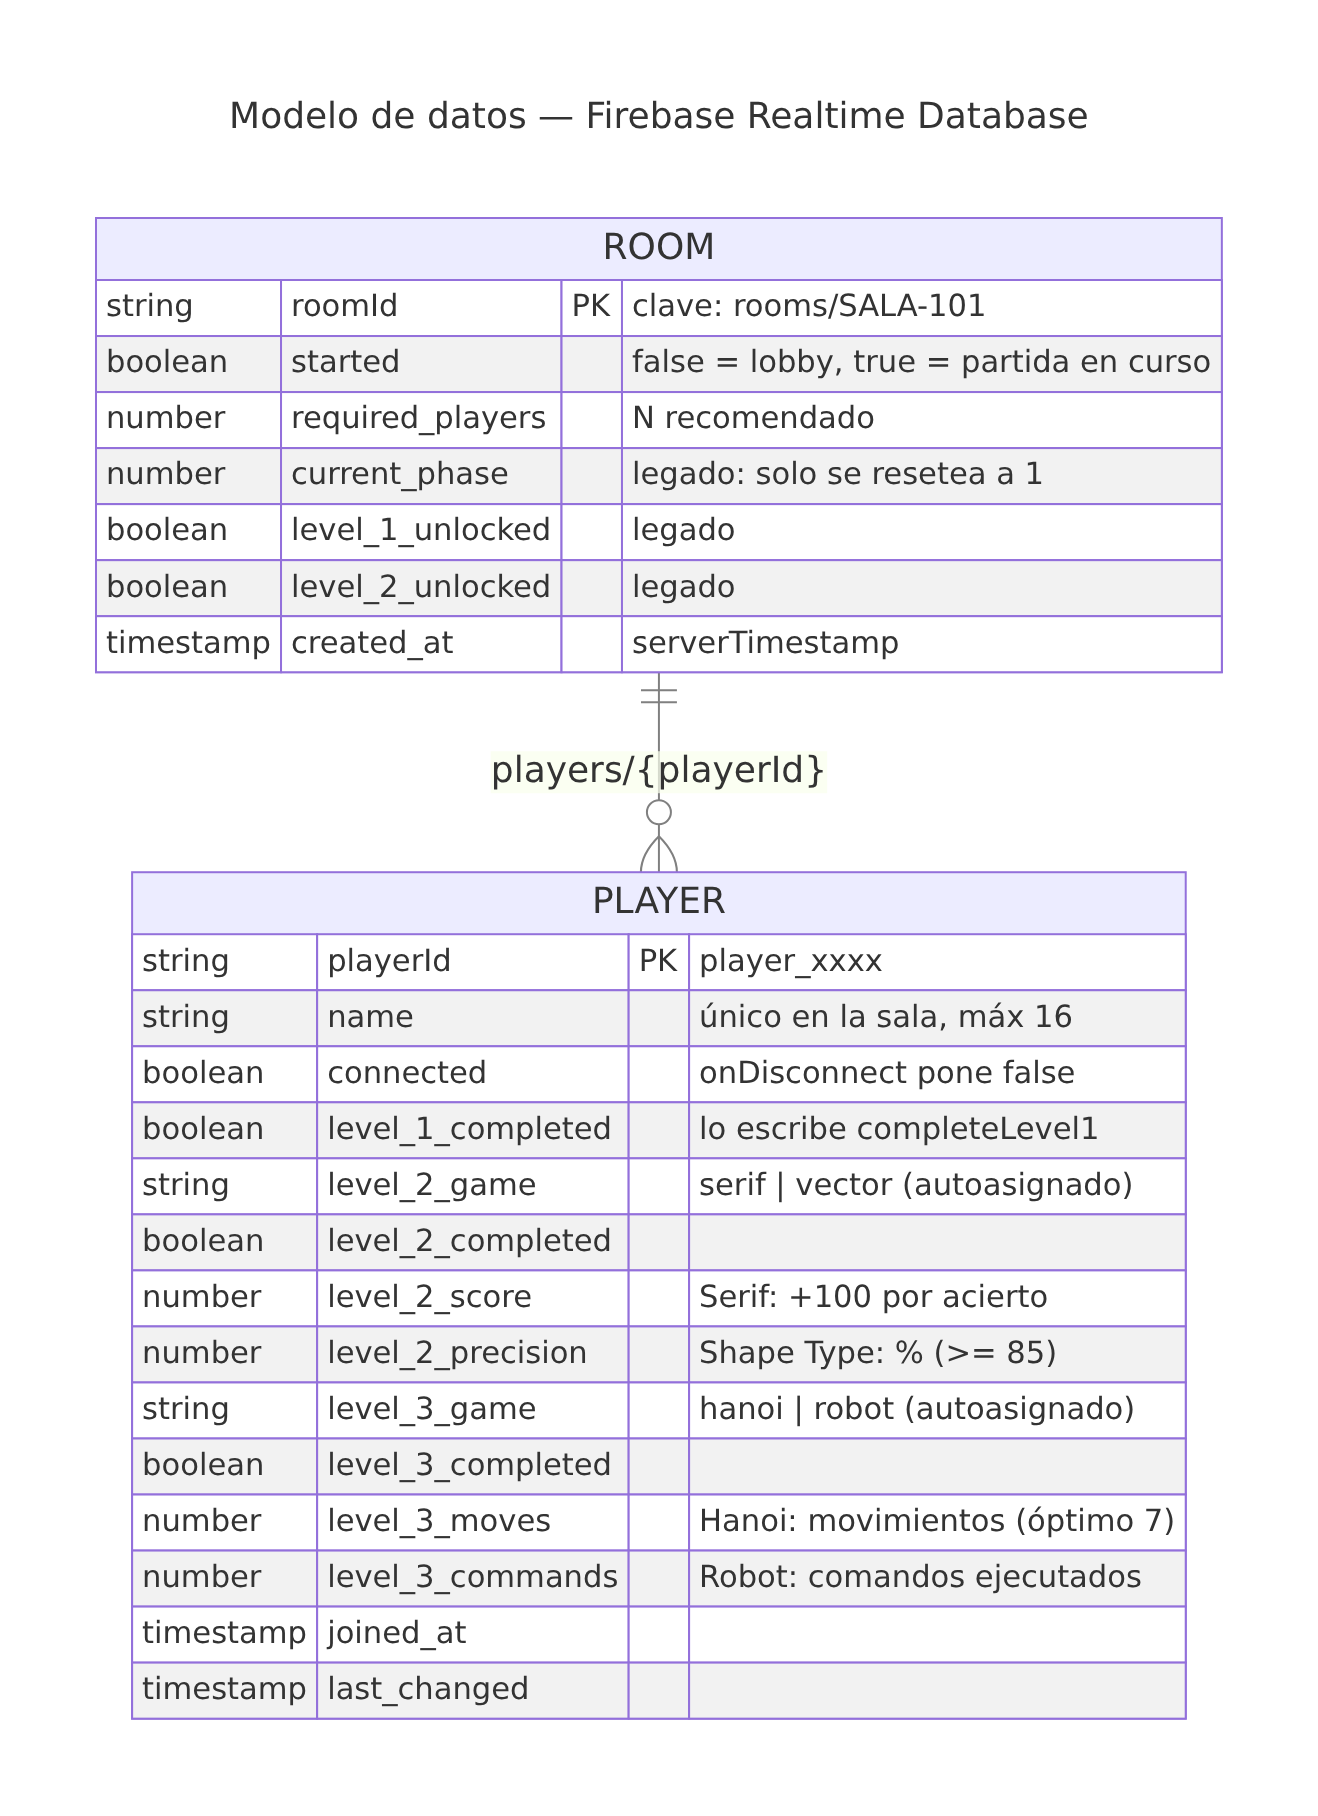
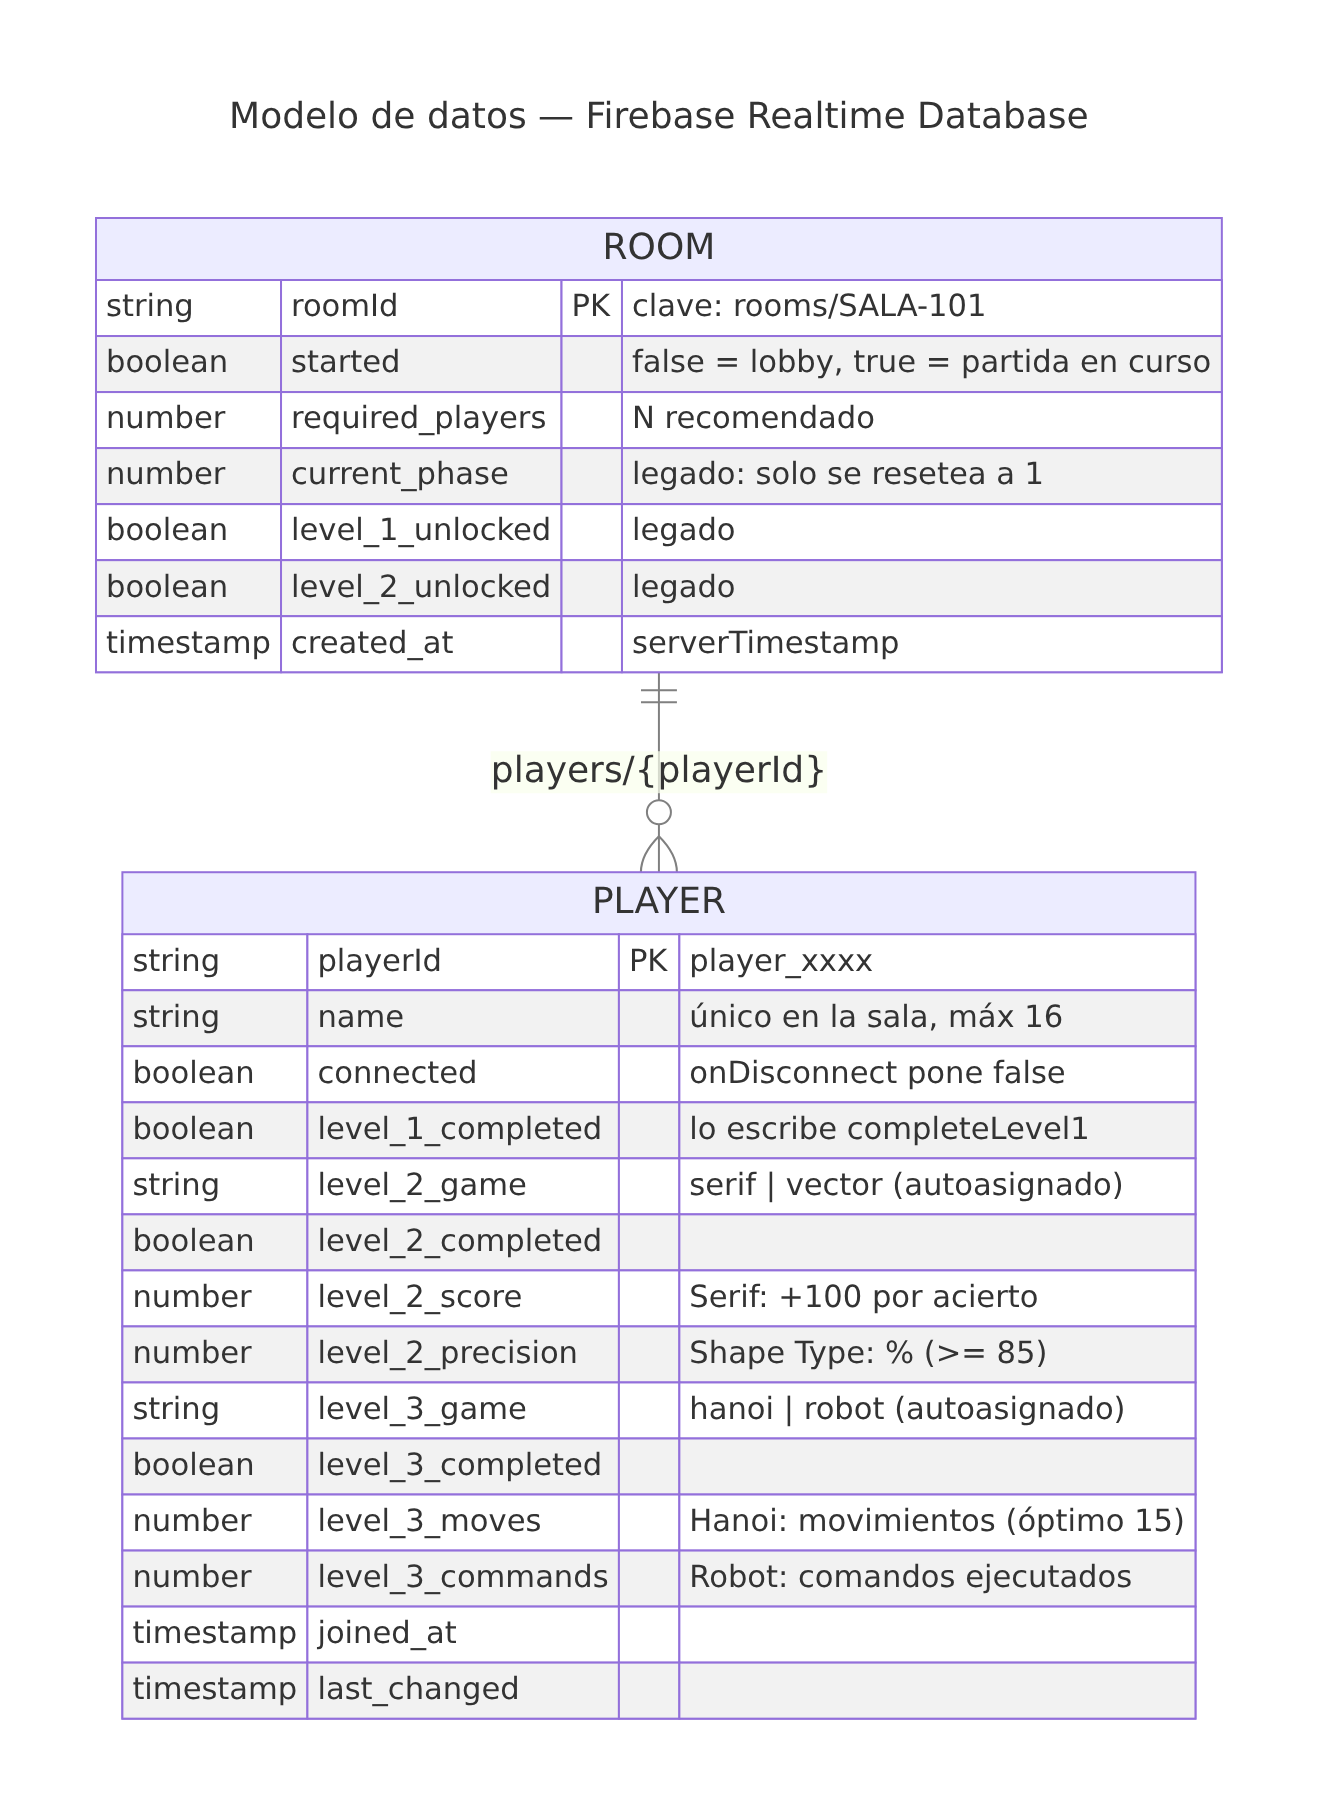
Torres de Hanoi: 4 disks (optimum 15 moves)
Claude-Session: https://claude.ai/code/session_01GpHXZPyw9LSKMeBCVETu6X

Changed region(s): [[0.0933, 0.5242, 0.9021, 0.9559]]

diff --git a/index.html b/index.html
@@ -124,7 +124,7 @@
   <section id="screen-hanoi" class="screen">
     <div class="l3-top">
       <span>🗼 Torres de Hanoi</span>
-      <span>Mov. <strong id="hanoi-moves">0</strong> · Óptimo <strong id="hanoi-optimal">7</strong></span>
+      <span>Mov. <strong id="hanoi-moves">0</strong> · Óptimo <strong id="hanoi-optimal">15</strong></span>
     </div>
     <p class="l3-desc">Migrá todos los discos del <b>Servidor A</b> al <b>Servidor C</b>: de a uno, solo el de arriba (pila LIFO) y nunca uno mayor sobre uno menor.</p>
     <div id="hanoi-towers" class="hanoi-towers"></div>

diff --git a/js/levels/level3/hanoi.js b/js/levels/level3/hanoi.js
@@ -8,7 +8,7 @@
 // message and never count.
 import { $, vibrate } from "../../ui.js";
 
-export const DISKS = 3; // optimum: 7 moves — short enough for a live event
+export const DISKS = 4; // optimum: 2^4 - 1 = 15 moves
 const TOWER_NAMES = ["Servidor A", "Buffer B", "Servidor C"];
 const DISK_COLORS = ["#ef4444", "#f97316", "#eab308", "#22c55e", "#0ea5e9", "#8b5cf6"];
 

diff --git a/system_design_architecture.md b/system_design_architecture.md
@@ -85,7 +85,7 @@ The structure is flat and lightweight to allow low-latency real-time synchroniza
 | `level_2_score` | Score accumulated in "I Shot The Serif" (+100 per correct serif). |
 | `level_2_precision` | Precision achieved in "Shape Type" (≥ 85% required to pass). |
 | `level_3_game` | Assigned Level 3 mini-game: `"hanoi"` (Torres de Hanoi) or `"robot"` (Robot Ciego). Self-assigned by the client when it clears Level 2 (section 7bis.1). |
-| `level_3_moves` | Moves used in Torres de Hanoi (optimum 7 with 3 disks). |
+| `level_3_moves` | Moves used in Torres de Hanoi (optimum 15 with 4 disks). |
 | `level_3_commands` | Commands executed by the Robot Ciego program until it reached the goal. |
 | `connected` | Presence flag maintained via `onDisconnect()`; `false` when the device drops offline. Armed by the client only after the live data confirms the player exists, re-armed if a network drop already set it to `false`, and cancelled when the player is removed (decision #16). |
 | `last_changed` | Timestamp (epoch) of the player's last update. |
@@ -120,7 +120,7 @@ The structure is flat and lightweight to allow low-latency real-time synchroniza
          │
          ▼ (ALL active players have level_2_completed = true; each client already self-assigned hanoi / robot)
 [ Screen 9a: Level 3 - "Torres de Hanoi" ] ───────┐
-         │ (move 3 disks A → C, stack rules)        │
+         │ (move 4 disks A → C, stack rules)        │
 [ Screen 9b: Level 3 - "Robot Ciego" ] ───────────┤ (Parallel execution)
          │ (write the whole program, then run it)   │
          ▼                                          │
@@ -474,21 +474,22 @@ When a player clears Level 2, the same transaction that stores `level_2_complete
 
 ```text
 +------------------------------------+
-| 🗼 Torres de Hanoi   Mov. 3 · Óptimo 7 |
+| 🗼 Torres de Hanoi  Mov. 3 · Óptimo 15 |
 | Migrá todos los discos del         |
 | Servidor A al Servidor C ...       |
 +------------------------------------+
 | [Servidor A] [ Buffer B ] [Servidor C] |
 |      |            |            |   |
 |     [1]           |            |   |
-|    [ 2 ]          |          [ 3 ] |
+|    [ 2 ]          |            |   |
+|   [  3  ]         |         [  4  ]|
 +------------------------------------+
 |  Status line (no toasts)           |
 |  [ 🔄 Reiniciar ]                  |
 +------------------------------------+
 ```
 
-* **Goal:** move the 3 disks (`DISKS = 3`, optimum 2³ − 1 = 7 moves) from **Servidor A** to **Servidor C**.
+* **Goal:** move the 4 disks (`DISKS = 4`, optimum 2⁴ − 1 = 15 moves) from **Servidor A** to **Servidor C**.
 * **Rules (system constraints):** one disk at a time (atomic operation); only the top disk is accessible (stack / LIFO); a bigger disk can never sit on a smaller one (data integrity).
 * **Interaction:** tap a tower to lift its top disk (highlighted), tap another tower to drop it; tap the same tower to cancel. Invalid moves are rejected with a message in the status line and do **not** count.
 * **Pass:** all disks on Servidor C, in any number of moves. The result shows whether it was optimal; `level_3_completed: true` and `level_3_moves` are stored.
@@ -597,4 +598,4 @@ Consolidated record of the design points that were previously left open, togethe
 | 15 | **Room management** | Rooms could only be created or opened by code; there was no way to see or remove them | The dashboard lists all rooms and can **delete empty rooms only** (transactional check, so a room never disappears with players inside). A deleted room can be re-created with the same code. |
 | 16 | **Ghost players** | A nameless player appeared in a room without anyone registering. Cause: the `onDisconnect → connected=false` write stayed armed after the player was removed (e.g. *Vaciar sala*), so closing that tab later re-created `players/{id}` as `{connected: false}`; a refresh with a stale session could do the same with `connected: true` | (1) Presence is armed (`trackPresence`) only once the live data shows the player exists, and cancelled (`stopPresence`) when the player or room disappears. (2) `database.rules.json` rejects player records without a non-empty `name`. (3) The dashboard roster flags nameless records and lets the coordinator **remove any player**. |
 | 17 | **Zoom on iPhone** | Players could pinch / double-tap zoom the game and Safari did not reliably zoom back, breaking the layout | The player app blocks zoom in every browser (viewport meta, ≥ 16 px inputs, `touch-action: manipulation`, `js/nozoom.js` for iOS pinch and desktop Ctrl zoom). Game buttons still accept rapid taps. The coordinator dashboard is unaffected. |
-| 18 | **Level 3** | Phase 3 was not implemented (#6); an algorithm-themed third level was requested | **Algorithm Lab:** the group is split in two like Level 2 — **Torres de Hanoi** (3 disks, stack rules, any number of moves passes, optimum 7 shown) and **Robot Ciego** (6×6 grid, write the whole program then run it; a collision highlights the failing command and lets the player fix it). The Level 3 game is self-assigned in the same transaction that completes Level 2 (balanced, ties at random). Level 3 unlocks when every active player cleared Level 2; victory when every active player cleared Level 3. |
+| 18 | **Level 3** | Phase 3 was not implemented (#6); an algorithm-themed third level was requested | **Algorithm Lab:** the group is split in two like Level 2 — **Torres de Hanoi** (4 disks, stack rules, any number of moves passes, optimum 15 shown) and **Robot Ciego** (6×6 grid, write the whole program then run it; a collision highlights the failing command and lets the player fix it). The Level 3 game is self-assigned in the same transaction that completes Level 2 (balanced, ties at random). Level 3 unlocks when every active player cleared Level 2; victory when every active player cleared Level 3. |

diff --git a/plan/plan_de_construccion.md b/plan/plan_de_construccion.md
@@ -126,7 +126,7 @@ Firebase se importa por ESM desde el CDN de gstatic (v10.7.1), como en el diseñ
 
 ### Fase 5b — Nivel 3: Laboratorio de Algoritmos (M)
 - Al completar el Nivel 2, `completeLevel2()` guarda puntaje/precisión y asigna `level_3_game` (`hanoi` / `robot`) en la misma transacción.
-- `level3/hanoi.js`: 3 discos, tocar torre origen y destino, reglas de pila; éxito → `level_3_completed` + `level_3_moves`.
+- `level3/hanoi.js`: 4 discos (óptimo 15), tocar torre origen y destino, reglas de pila; éxito → `level_3_completed` + `level_3_moves`.
 - `level3/robot.js`: grilla 6×6 con camino garantizado (BFS), programa completo y luego ejecución; choque → comando en rojo y reintento; éxito → `level_3_completed` + `level_3_commands`.
 - **Entregable:** el grupo se divide en dos juegos y pasa a la victoria cuando todos completan.
 

diff --git a/README.md b/README.md
@@ -96,7 +96,7 @@ so a simple HTTP host is enough.
    allowed: the 2nd wrong tap restarts the round. Finishing it assigns the Nivel 3 game
    (`hanoi` or `robot`, balanced the same way).
 7. When every connected player completes Nivel 2, **Nivel 3 (Laboratorio de Algoritmos)**
-   starts by itself: **Torres de Hanoi** (move 3 disks A → C with stack rules) or
+   starts by itself: **Torres de Hanoi** (move 4 disks A → C with stack rules) or
    **Robot Ciego** (write the whole program, then run it; a crash highlights the bad command).
 8. When every connected player completes Nivel 3, everyone sees the group-victory screen.
 
